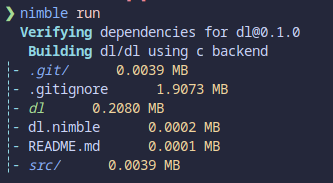
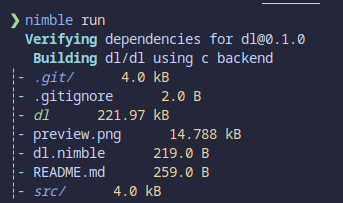
fix size issue and add jitter

diff --git a/README.md b/README.md
@@ -3,6 +3,6 @@ ls for dummies
 
 no 'thank you' necessary, you're welcome.
 
-somehow the size is messed up, reading 1 mb for the .gitignore, while my file manager says its 2 bytes. i dont care though.
+if for some reason you want to use this, install with jitter(jtr -g install sharpcdf/dl) or download the latest release
 
 <image src="https://github.com/sharpcdf/dl/blob/master/preview.png"/>
